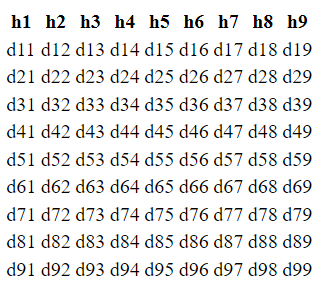
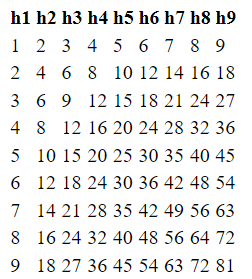
Assignment3 corrected

diff --git a/Assignment3/index.php b/Assignment3/index.php
@@ -15,7 +15,7 @@ function createTable(int $row, int $col){
         $table .= "<tr>";
         for($j = 1; $j <= $col; $j++){
             $table .= "<td>";
-            $table .= "d$i$j";
+            $table .= $i*$j;
             $table .= "</td>";
         }
         $table .= "</tr>";
